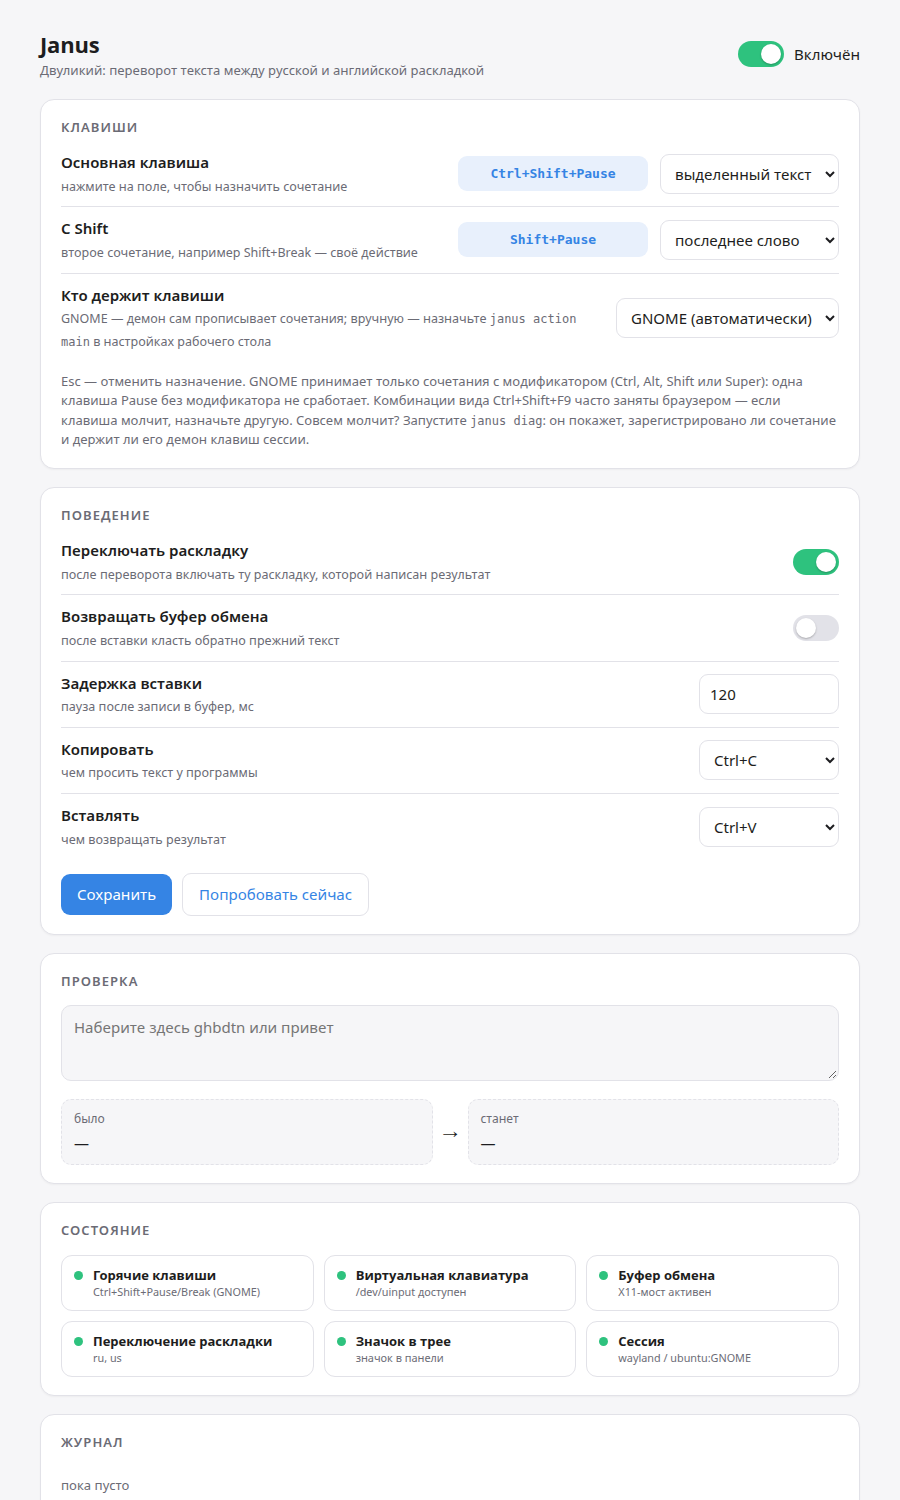
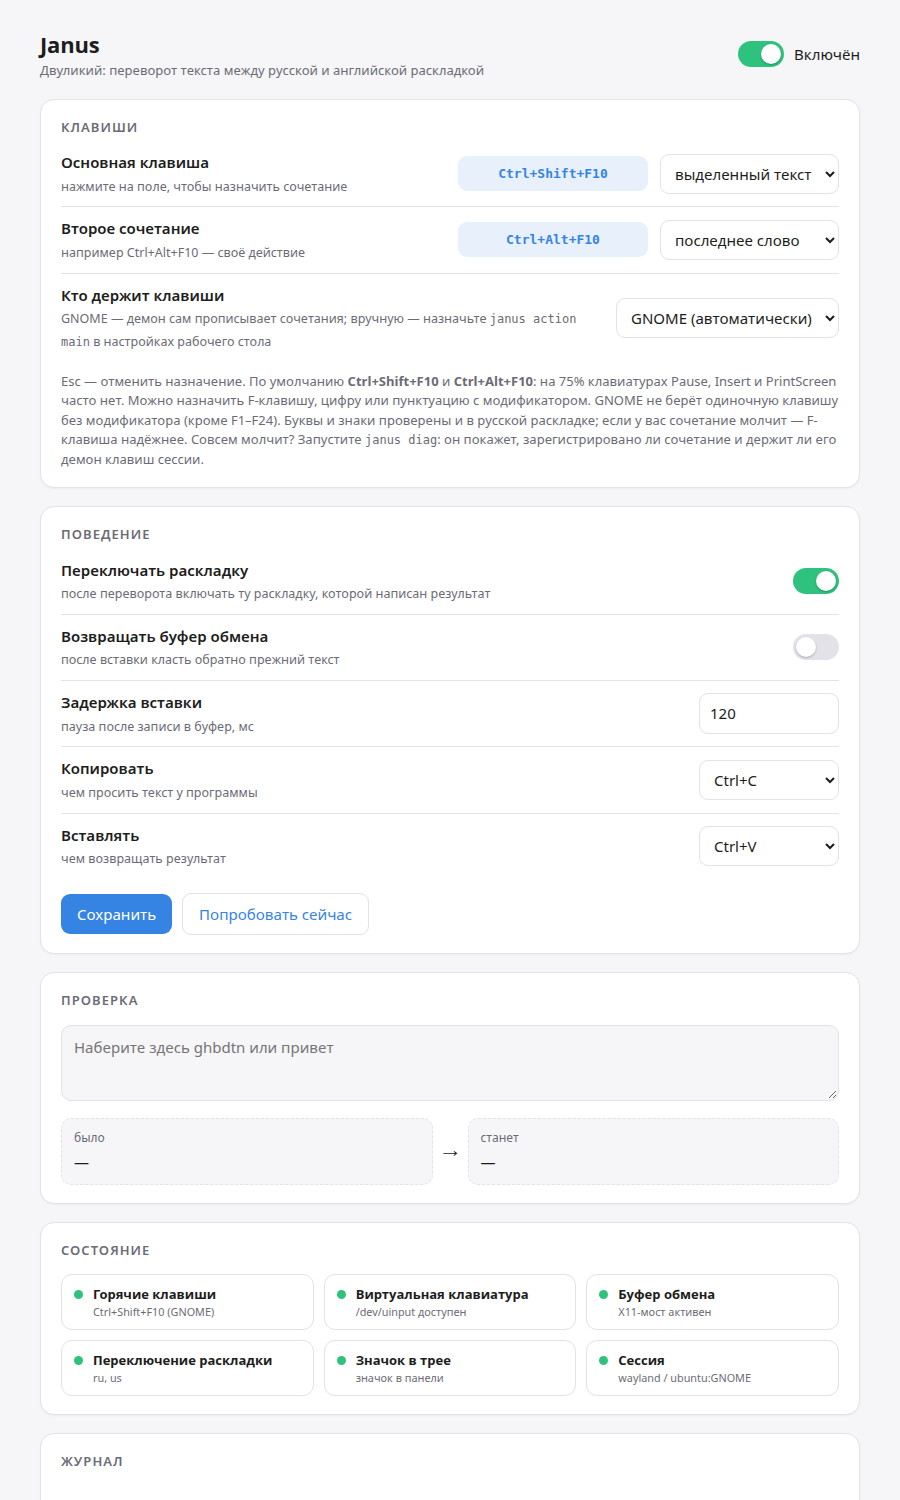
UI: подпись второго сочетания и новый скриншот

diff --git a/internal/server/ui/index.html b/internal/server/ui/index.html
@@ -108,8 +108,8 @@
       </select>
     </div>
     <div class="row">
-      <div class="name"><b>С Shift</b>
-        <small>второе сочетание, например Shift+Break — своё действие</small></div>
+      <div class="name"><b>Второе сочетание</b>
+        <small>например Ctrl+Alt+F10 — своё действие</small></div>
       <div class="key" id="keyAlt" tabindex="0" role="button">Ctrl+Alt+F10</div>
       <select id="actionAlt">
         <option value="selection">выделенный текст</option>

diff --git a/CHANGELOG.md b/CHANGELOG.md
@@ -1,5 +1,10 @@
 # Изменения
 
+## Не выпущено
+
+* Веб-интерфейс: подпись второго сочетания больше не «С Shift» (по умолчанию там Ctrl+Alt+F10),
+  обновлён скриншот в README.
+
 ## 1.2.0 — 2026-11-22
 
 * Горячие клавиши стали гибче: можно назначать пунктуацию (`-`, `=`, `[`, `]`, `\`, `;`,
